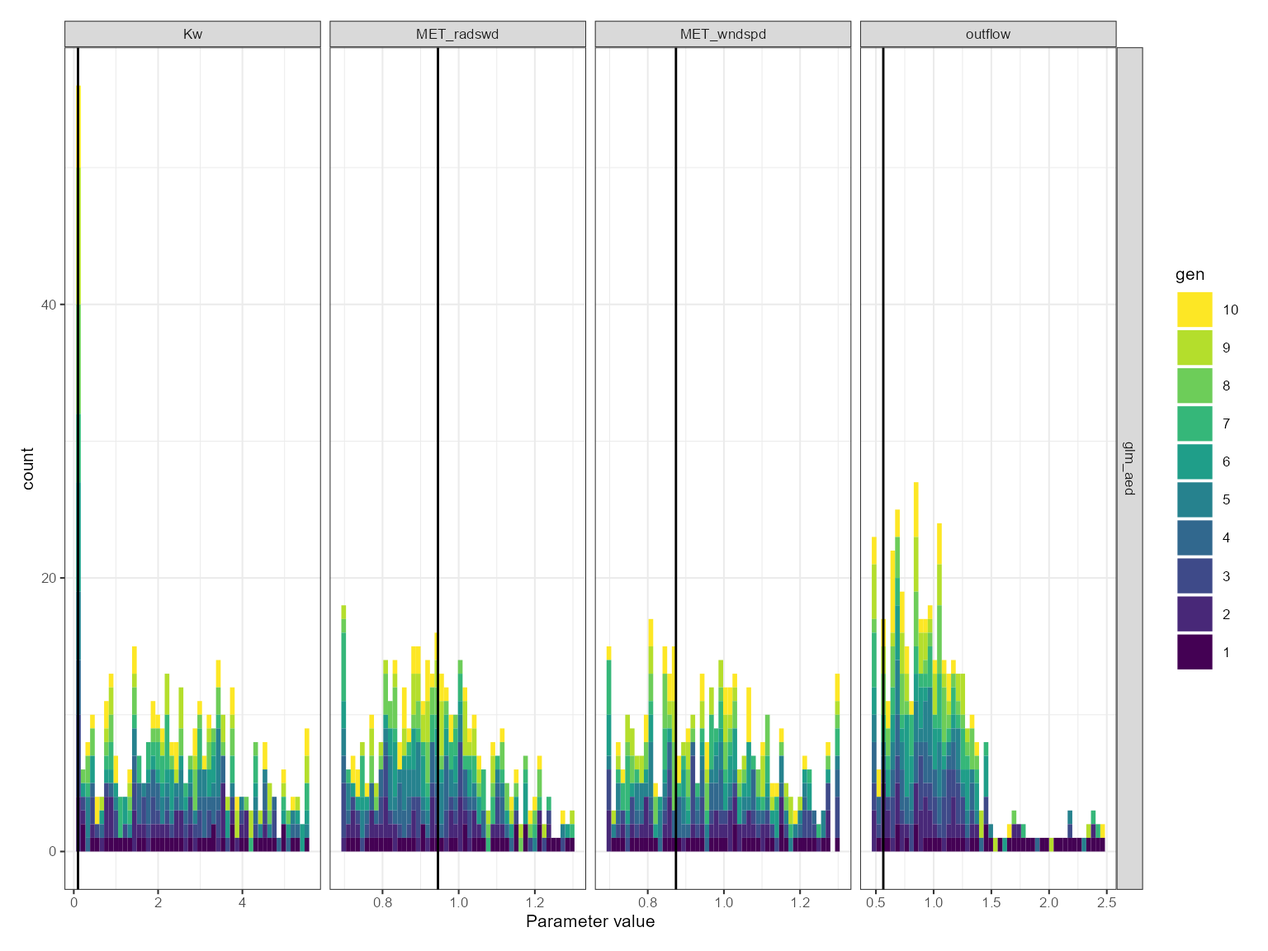
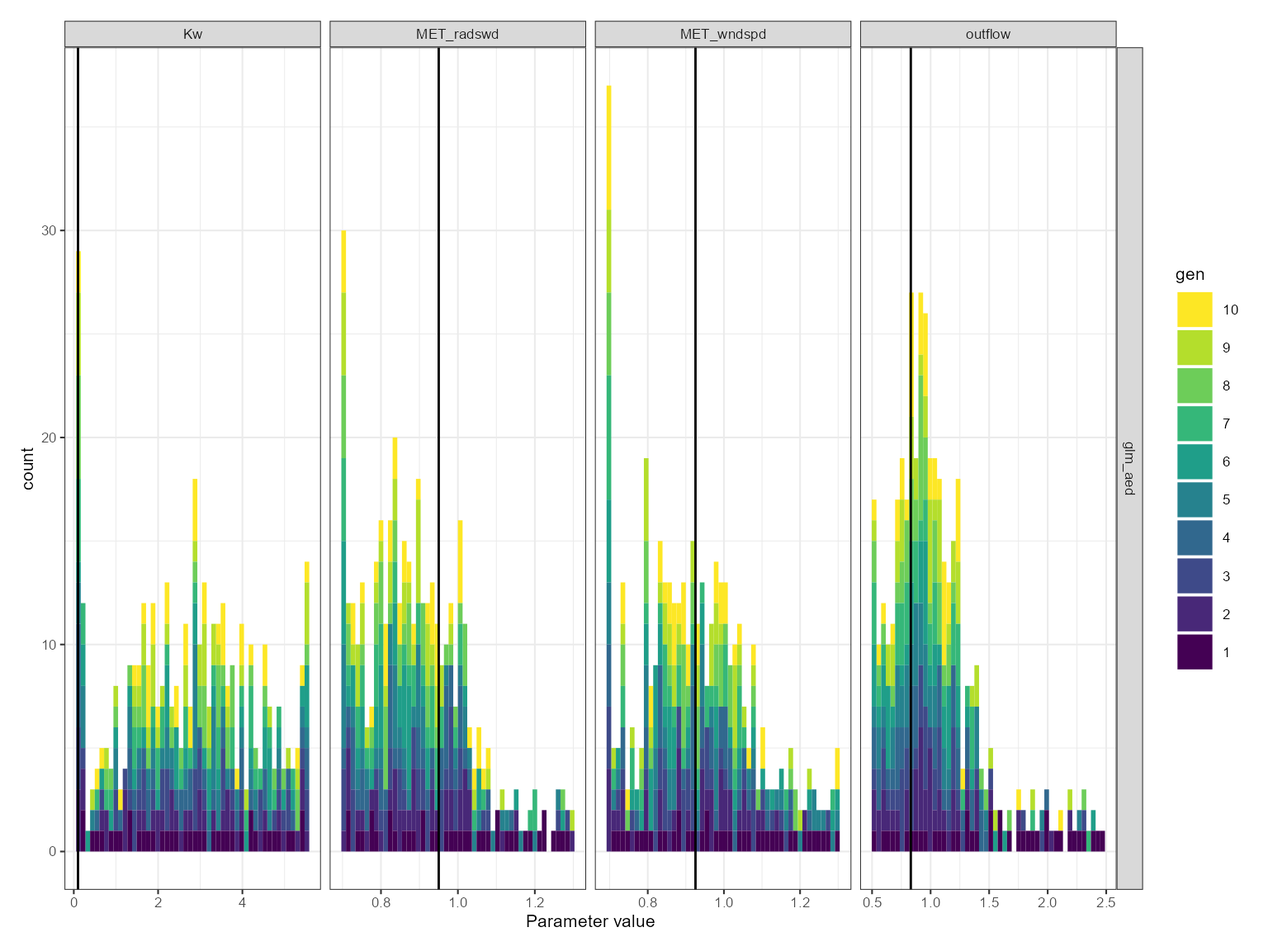
Deploying to gh-pages from @ limnotrack/aemetools@e411aa516987b81ef7f3dbb24cba73d66f4d2c87 🚀

Changed region(s): [[0.0625, 0.0625, 0.875, 0.9375], [0.2812, 0.9375, 0.3125, 0.9688]]

diff --git a/articles/calibrate-aeme.html b/articles/calibrate-aeme.html
@@ -42,7 +42,6 @@
   <a href="#" class="nav-link dropdown-toggle" data-bs-toggle="dropdown" role="button" aria-expanded="false" aria-haspopup="true" id="dropdown-articles">Articles</a>
   <div class="dropdown-menu" aria-labelledby="dropdown-articles">
     <a class="dropdown-item" href="../articles/calibrate-aeme.html">Calibrate AEME</a>
-    <a class="dropdown-item" href="../articles/calibration-strategies.html">Calibration strategies</a>
     <a class="dropdown-item" href="../articles/download-era5.html">Download ERA5 data</a>
   </div>
 </li>
@@ -122,9 +121,9 @@ make sure the current model setup is working.</p>
 <code class="sourceCode R"><span><span class="va">aeme_data</span> <span class="op">&lt;-</span> <span class="fu"><a href="https://rdrr.io/pkg/AEME/man/run_aeme.html" class="external-link">run_aeme</a></span><span class="op">(</span>aeme_data <span class="op">=</span> <span class="va">aeme_data</span>, model <span class="op">=</span> <span class="va">model</span>,</span>
 <span>                      verbose <span class="op">=</span> <span class="cn">FALSE</span>, mod_ctrls <span class="op">=</span> <span class="va">mod_ctrls</span>,</span>
 <span>                      path <span class="op">=</span> <span class="va">path</span><span class="op">)</span></span>
-<span><span class="co">#&gt; Running models... (Have you tried parallelizing?) [2023-11-05 22:23:56.839177]</span></span>
-<span><span class="co">#&gt; GLM-AED run successful! [2023-11-05 22:23:57.577911]</span></span>
-<span><span class="co">#&gt; Model run complete![2023-11-05 22:23:57.578744]</span></span>
+<span><span class="co">#&gt; Running models... (Have you tried parallelizing?) [2023-11-06 04:38:27.919431]</span></span>
+<span><span class="co">#&gt; GLM-AED run successful! [2023-11-06 04:38:28.771862]</span></span>
+<span><span class="co">#&gt; Model run complete![2023-11-06 04:38:28.772852]</span></span>
 <span><span class="co">#&gt; Retrieving and formatting temp for model glm_aed</span></span>
 <span><span class="co">#&gt; Retrieving and formatting salt for model glm_aed</span></span>
 <span><span class="fu"><a href="https://rdrr.io/r/graphics/plot.default.html" class="external-link">plot</a></span><span class="op">(</span><span class="va">aeme_data</span><span class="op">)</span></span></code></pre></div>
@@ -229,9 +228,9 @@ but the model output is generate within the lake folder.</p>
 <div class="sourceCode" id="cb7"><pre class="downlit sourceCode r">
 <code class="sourceCode R"><span><span class="fu"><a href="../reference/run_aeme_param.html">run_aeme_param</a></span><span class="op">(</span>aeme_data <span class="op">=</span> <span class="va">aeme_data</span>, param <span class="op">=</span> <span class="va">aeme_parameters</span>,</span>
 <span>                 model <span class="op">=</span> <span class="va">model</span>, path <span class="op">=</span> <span class="va">path</span>, mod_ctrls <span class="op">=</span> <span class="va">mod_ctrls</span><span class="op">)</span></span>
-<span><span class="co">#&gt; Running models... (Have you tried parallelizing?) [2023-11-05 22:24:04.634765]</span></span>
-<span><span class="co">#&gt; GLM-AED run successful! [2023-11-05 22:24:05.365098]</span></span>
-<span><span class="co">#&gt; Model run complete![2023-11-05 22:24:05.365969]</span></span></code></pre></div>
+<span><span class="co">#&gt; Running models... (Have you tried parallelizing?) [2023-11-06 04:38:33.053816]</span></span>
+<span><span class="co">#&gt; GLM-AED run successful! [2023-11-06 04:38:33.79091]</span></span>
+<span><span class="co">#&gt; Model run complete![2023-11-06 04:38:33.791798]</span></span></code></pre></div>
 </div>
 <div class="section level2">
 <h2 id="calibration-setup">Calibration setup<a class="anchor" aria-label="anchor" href="#calibration-setup"></a>
@@ -301,7 +300,7 @@ This is only used if <code>parallel = TRUE</code>.</li>
 </ul>
 <p>Here is an example of the control parameters:</p>
 <div class="sourceCode" id="cb9"><pre class="downlit sourceCode r">
-<code class="sourceCode R"><span><span class="va">ctrl</span> <span class="op">&lt;-</span> <span class="fu"><a href="https://rdrr.io/r/base/list.html" class="external-link">list</a></span><span class="op">(</span>VTR <span class="op">=</span> <span class="fl">1</span>, NP <span class="op">=</span> <span class="fl">40</span>, itermax <span class="op">=</span> <span class="fl">400</span>, reltol <span class="op">=</span> <span class="fl">0.07</span>, p <span class="op">=</span> <span class="fl">0.25</span>,</span>
+<code class="sourceCode R"><span><span class="va">ctrl</span> <span class="op">&lt;-</span> <span class="fu"><a href="https://rdrr.io/r/base/list.html" class="external-link">list</a></span><span class="op">(</span>VTR <span class="op">=</span> <span class="fl">1</span>, NP <span class="op">=</span> <span class="fl">40</span>, itermax <span class="op">=</span> <span class="fl">400</span>, reltol <span class="op">=</span> <span class="fl">0.07</span>, cutoff <span class="op">=</span> <span class="fl">0.25</span>,</span>
 <span>             mutate <span class="op">=</span> <span class="fl">0.1</span>, parallel <span class="op">=</span> <span class="cn">TRUE</span>, out_file <span class="op">=</span> <span class="st">"results.csv"</span>,</span>
 <span>             na_value <span class="op">=</span> <span class="fl">999</span>, ncore <span class="op">=</span> <span class="fl">2L</span><span class="op">)</span></span></code></pre></div>
 </div>
@@ -365,79 +364,79 @@ values.</p>
 <span>                   param <span class="op">=</span> <span class="va">aeme_parameters</span>, model <span class="op">=</span> <span class="va">model</span>,</span>
 <span>                   mod_ctrls <span class="op">=</span> <span class="va">mod_ctrls</span>, FUN <span class="op">=</span> <span class="va">fit</span>, ctrl <span class="op">=</span> <span class="va">ctrl</span>,</span>
 <span>                   vars_sim <span class="op">=</span> <span class="va">vars_sim</span>, weights <span class="op">=</span> <span class="va">weights</span><span class="op">)</span></span>
-<span><span class="co">#&gt; Extracting indices for modelled variables [2023-11-05 22:24:05.697557]</span></span>
-<span><span class="co">#&gt; Complete! [2023-11-05 22:24:06.553874]</span></span>
+<span><span class="co">#&gt; Extracting indices for modelled variables [2023-11-06 04:38:34.192649]</span></span>
+<span><span class="co">#&gt; Complete! [2023-11-06 04:38:35.09382]</span></span>
 <span><span class="co">#&gt; Calibrating in parallel using 1 cores...</span></span>
-<span><span class="co">#&gt; Starting generation 1/10, 40 members. [2023-11-05 22:24:06.809439]</span></span>
+<span><span class="co">#&gt; Starting generation 1/10, 40 members. [2023-11-06 04:38:35.4264]</span></span>
 <span><span class="co">#&gt;        light.Kw MET_wndspd MET_radswd outflow</span></span>
-<span><span class="co">#&gt; mean      2.818     0.9995     1.0000   1.499</span></span>
-<span><span class="co">#&gt; median    2.847     0.9985     1.0030   1.487</span></span>
-<span><span class="co">#&gt; sd        1.584     0.1748     0.1762   0.591</span></span>
-<span><span class="co">#&gt; Best fit: 2.409 (sd: 327.759)</span></span>
-<span><span class="co">#&gt;             Parameters: [0.268, 0.862, 0.784, 0.564]</span></span>
+<span><span class="co">#&gt; mean      2.806     1.0010     0.9999  1.5020</span></span>
+<span><span class="co">#&gt; median    2.829     0.9949     1.0020  1.5100</span></span>
+<span><span class="co">#&gt; sd        1.587     0.1744     0.1747  0.5819</span></span>
+<span><span class="co">#&gt; Best fit: 2.536 (sd: 327.279)</span></span>
+<span><span class="co">#&gt;             Parameters: [0.271, 0.884, 0.858, 0.926]</span></span>
 <span><span class="co">#&gt; Survival rate: 1</span></span>
-<span><span class="co">#&gt; Starting generation 2/10, 40 members. [2023-11-05 22:24:41.162272]</span></span>
+<span><span class="co">#&gt; Starting generation 2/10, 40 members. [2023-11-06 04:39:14.554675]</span></span>
 <span><span class="co">#&gt;        light.Kw MET_wndspd MET_radswd outflow</span></span>
-<span><span class="co">#&gt; mean      2.058     0.9648     0.9220  0.9478</span></span>
-<span><span class="co">#&gt; median    2.005     0.9912     0.9304  0.8919</span></span>
-<span><span class="co">#&gt; sd        1.328     0.1567     0.1369  0.3880</span></span>
-<span><span class="co">#&gt; Best fit: 2.3488 (sd: 192.53)</span></span>
+<span><span class="co">#&gt; mean      2.639     0.9131     0.9000  1.0180</span></span>
+<span><span class="co">#&gt; median    2.579     0.9400     0.8863  0.9668</span></span>
+<span><span class="co">#&gt; sd        1.645     0.1361     0.1301  0.3731</span></span>
+<span><span class="co">#&gt; Best fit: 2.5363 (sd: 218.14)</span></span>
 <span><span class="co">#&gt; Survival rate: 1</span></span>
-<span><span class="co">#&gt; Starting generation 3/10, 40 members. [2023-11-05 22:25:17.974247]</span></span>
+<span><span class="co">#&gt; Starting generation 3/10, 40 members. [2023-11-06 04:39:56.566896]</span></span>
 <span><span class="co">#&gt;        light.Kw MET_wndspd MET_radswd outflow</span></span>
-<span><span class="co">#&gt; mean      2.065     0.9915     0.9258  0.9889</span></span>
-<span><span class="co">#&gt; median    1.922     0.9441     0.9265  0.9922</span></span>
-<span><span class="co">#&gt; sd        1.455     0.1967     0.1584  0.3247</span></span>
-<span><span class="co">#&gt; Best fit: 2.3275 (sd: 154.3)</span></span>
+<span><span class="co">#&gt; mean      2.744     0.9282     0.9030  1.0270</span></span>
+<span><span class="co">#&gt; median    2.863     0.9117     0.9075  0.9508</span></span>
+<span><span class="co">#&gt; sd        1.644     0.1407     0.1347  0.3612</span></span>
+<span><span class="co">#&gt; Best fit: 2.3576 (sd: 209.21)</span></span>
 <span><span class="co">#&gt; Survival rate: 1</span></span>
-<span><span class="co">#&gt; Starting generation 4/10, 40 members. [2023-11-05 22:25:54.420919]</span></span>
+<span><span class="co">#&gt; Starting generation 4/10, 40 members. [2023-11-06 04:40:38.872863]</span></span>
 <span><span class="co">#&gt;        light.Kw MET_wndspd MET_radswd outflow</span></span>
-<span><span class="co">#&gt; mean      2.486     0.9737     0.9174  0.9137</span></span>
-<span><span class="co">#&gt; median    2.250     0.9575     0.9271  0.8980</span></span>
-<span><span class="co">#&gt; sd        1.553     0.1449     0.1239  0.2975</span></span>
-<span><span class="co">#&gt; Best fit: 2.3275 (sd: 129.23)</span></span>
+<span><span class="co">#&gt; mean      2.785     0.9227     0.8831  0.9987</span></span>
+<span><span class="co">#&gt; median    2.756     0.9235     0.8925  1.0390</span></span>
+<span><span class="co">#&gt; sd        1.664     0.1300     0.1141  0.3245</span></span>
+<span><span class="co">#&gt; Best fit: 2.3567 (sd: 175.88)</span></span>
 <span><span class="co">#&gt; Survival rate: 1</span></span>
-<span><span class="co">#&gt; Starting generation 5/10, 40 members. [2023-11-05 22:26:30.978151]</span></span>
+<span><span class="co">#&gt; Starting generation 5/10, 40 members. [2023-11-06 04:41:21.076886]</span></span>
 <span><span class="co">#&gt;        light.Kw MET_wndspd MET_radswd outflow</span></span>
-<span><span class="co">#&gt; mean      2.489     0.9611     0.9022  1.0070</span></span>
-<span><span class="co">#&gt; median    2.567     0.9570     0.8902  0.9600</span></span>
-<span><span class="co">#&gt; sd        1.519     0.1758     0.1265  0.3739</span></span>
-<span><span class="co">#&gt; Best fit: 2.3274 (sd: 185.42)</span></span>
+<span><span class="co">#&gt; mean      2.615     0.9717     0.9028  0.9856</span></span>
+<span><span class="co">#&gt; median    2.880     0.9433     0.8792  0.9024</span></span>
+<span><span class="co">#&gt; sd        1.469     0.1780     0.1492  0.3557</span></span>
+<span><span class="co">#&gt; Best fit: 2.3537 (sd: 214.97)</span></span>
 <span><span class="co">#&gt; Survival rate: 1</span></span>
-<span><span class="co">#&gt; Starting generation 6/10, 40 members. [2023-11-05 22:27:06.778532]</span></span>
+<span><span class="co">#&gt; Starting generation 6/10, 40 members. [2023-11-06 04:42:03.625924]</span></span>
 <span><span class="co">#&gt;        light.Kw MET_wndspd MET_radswd outflow</span></span>
-<span><span class="co">#&gt; mean      2.171     0.9762     0.9351  0.9408</span></span>
-<span><span class="co">#&gt; median    2.089     1.0110     0.9113  0.8459</span></span>
-<span><span class="co">#&gt; sd        1.786     0.1545     0.1461  0.2964</span></span>
-<span><span class="co">#&gt; Best fit: 2.3255 (sd: 179.83)</span></span>
+<span><span class="co">#&gt; mean      3.000     0.9023     0.8480  0.9712</span></span>
+<span><span class="co">#&gt; median    2.911     0.8521     0.8363  0.9415</span></span>
+<span><span class="co">#&gt; sd        1.668     0.1593     0.1248  0.3582</span></span>
+<span><span class="co">#&gt; Best fit: 2.3537 (sd: 178.09)</span></span>
 <span><span class="co">#&gt; Survival rate: 1</span></span>
-<span><span class="co">#&gt; Starting generation 7/10, 40 members. [2023-11-05 22:27:43.372492]</span></span>
+<span><span class="co">#&gt; Starting generation 7/10, 40 members. [2023-11-06 04:42:46.557084]</span></span>
 <span><span class="co">#&gt;        light.Kw MET_wndspd MET_radswd outflow</span></span>
-<span><span class="co">#&gt; mean      2.189     0.9331     0.9632  1.0120</span></span>
-<span><span class="co">#&gt; median    2.042     0.9435     0.9945  0.9798</span></span>
-<span><span class="co">#&gt; sd        1.495     0.1763     0.1642  0.4340</span></span>
-<span><span class="co">#&gt; Best fit: 2.3255 (sd: 202.92)</span></span>
+<span><span class="co">#&gt; mean      2.635     0.8912     0.8811  0.9985</span></span>
+<span><span class="co">#&gt; median    2.692     0.8840     0.8816  0.9564</span></span>
+<span><span class="co">#&gt; sd        1.588     0.1425     0.1354  0.3606</span></span>
+<span><span class="co">#&gt; Best fit: 2.3444 (sd: 178.2)</span></span>
 <span><span class="co">#&gt; Survival rate: 1</span></span>
-<span><span class="co">#&gt; Starting generation 8/10, 40 members. [2023-11-05 22:28:19.870522]</span></span>
+<span><span class="co">#&gt; Starting generation 8/10, 40 members. [2023-11-06 04:43:29.001325]</span></span>
 <span><span class="co">#&gt;        light.Kw MET_wndspd MET_radswd outflow</span></span>
-<span><span class="co">#&gt; mean      1.976     0.9489     0.9626  0.9366</span></span>
-<span><span class="co">#&gt; median    1.949     0.9111     0.9362  0.9436</span></span>
-<span><span class="co">#&gt; sd        1.552     0.1413     0.1487  0.2847</span></span>
-<span><span class="co">#&gt; Best fit: 2.3249 (sd: 137.98)</span></span>
+<span><span class="co">#&gt; mean      2.729     0.9146     0.8635  0.9726</span></span>
+<span><span class="co">#&gt; median    3.079     0.9203     0.8436  0.9267</span></span>
+<span><span class="co">#&gt; sd        1.588     0.1349     0.1154  0.3209</span></span>
+<span><span class="co">#&gt; Best fit: 2.3437 (sd: 170.47)</span></span>
 <span><span class="co">#&gt; Survival rate: 1</span></span>
-<span><span class="co">#&gt; Starting generation 9/10, 40 members. [2023-11-05 22:28:56.753362]</span></span>
+<span><span class="co">#&gt; Starting generation 9/10, 40 members. [2023-11-06 04:44:11.67561]</span></span>
 <span><span class="co">#&gt;        light.Kw MET_wndspd MET_radswd outflow</span></span>
-<span><span class="co">#&gt; mean      2.383     0.9472     0.9507  0.9973</span></span>
-<span><span class="co">#&gt; median    2.473     0.9477     0.9443  0.9448</span></span>
-<span><span class="co">#&gt; sd        1.816     0.1499     0.1302  0.3799</span></span>
-<span><span class="co">#&gt; Best fit: 2.3248 (sd: 196.49)</span></span>
+<span><span class="co">#&gt; mean      2.640     0.9044     0.8636  1.0420</span></span>
+<span><span class="co">#&gt; median    2.613     0.8807     0.8577  0.9860</span></span>
+<span><span class="co">#&gt; sd        1.544     0.1394     0.1258  0.3369</span></span>
+<span><span class="co">#&gt; Best fit: 2.3329 (sd: 215.4)</span></span>
 <span><span class="co">#&gt; Survival rate: 1</span></span>
-<span><span class="co">#&gt; Starting generation 10/10, 40 members. [2023-11-05 22:29:32.633089]</span></span>
+<span><span class="co">#&gt; Starting generation 10/10, 40 members. [2023-11-06 04:44:53.451593]</span></span>
 <span><span class="co">#&gt;        light.Kw MET_wndspd MET_radswd outflow</span></span>
-<span><span class="co">#&gt; mean      2.189     0.9668     0.9457  0.8740</span></span>
-<span><span class="co">#&gt; median    2.006     0.9451     0.9180  0.7781</span></span>
-<span><span class="co">#&gt; sd        1.684     0.1588     0.1409  0.3634</span></span>
-<span><span class="co">#&gt; Best fit: 2.3248 (sd: 156.23)</span></span>
+<span><span class="co">#&gt; mean      2.742     0.9039     0.8881  0.9933</span></span>
+<span><span class="co">#&gt; median    2.766     0.8892     0.8670  0.9469</span></span>
+<span><span class="co">#&gt; sd        1.355     0.1504     0.1109  0.2969</span></span>
+<span><span class="co">#&gt; Best fit: 2.3329 (sd: 149.35)</span></span>
 <span><span class="co">#&gt; Survival rate: 1</span></span></code></pre></div>
 </div>
 <div class="section level2">

diff --git a/articles/download-era5.html b/articles/download-era5.html
@@ -42,7 +42,6 @@
   <a href="#" class="nav-link dropdown-toggle" data-bs-toggle="dropdown" role="button" aria-expanded="false" aria-haspopup="true" id="dropdown-articles">Articles</a>
   <div class="dropdown-menu" aria-labelledby="dropdown-articles">
     <a class="dropdown-item" href="../articles/calibrate-aeme.html">Calibrate AEME</a>
-    <a class="dropdown-item" href="../articles/calibration-strategies.html">Calibration strategies</a>
     <a class="dropdown-item" href="../articles/download-era5.html">Download ERA5 data</a>
   </div>
 </li>
@@ -96,8 +95,8 @@ your computer to speed up the download.</p>
 <span><span class="va">met</span> <span class="op">&lt;-</span> <span class="fu"><a href="../reference/get_era5_point.html">get_era5_point</a></span><span class="op">(</span>lat <span class="op">=</span> <span class="va">lat</span>, lon <span class="op">=</span> <span class="va">lon</span>, years <span class="op">=</span> <span class="fl">2000</span><span class="op">:</span><span class="fl">2001</span>,</span>
 <span>                      variables <span class="op">=</span> <span class="va">variables</span>, format <span class="op">=</span> <span class="st">"aeme"</span>, parallel <span class="op">=</span> <span class="cn">TRUE</span><span class="op">)</span></span>
 <span><span class="co">#&gt; Auto-refreshing stale OAuth token.</span></span>
-<span><span class="co">#&gt; Downloading ERA5 variables in parallel... [2023-11-05 22:35:50.287673]</span></span>
-<span><span class="co">#&gt; Finished downloading ERA5 variables! [2023-11-05 22:36:02.431838]</span></span>
+<span><span class="co">#&gt; Downloading ERA5 variables in parallel... [2023-11-06 04:45:49.58273]</span></span>
+<span><span class="co">#&gt; Finished downloading ERA5 variables! [2023-11-06 04:46:02.440519]</span></span>
 <span><span class="fu"><a href="https://rdrr.io/r/base/summary.html" class="external-link">summary</a></span><span class="op">(</span><span class="va">met</span><span class="op">)</span></span>
 <span><span class="co">#&gt;       Date              MET_tmpair       MET_pprain     </span></span>
 <span><span class="co">#&gt;  Min.   :2000-01-01   Min.   : 3.407   Min.   : 0.0000  </span></span>

diff --git a/reference/calib_aeme.html b/reference/calib_aeme.html
@@ -29,7 +29,6 @@ to run quicker."><!-- mathjax --><script src="https://cdnjs.cloudflare.com/ajax/
   <a href="#" class="nav-link dropdown-toggle" data-bs-toggle="dropdown" role="button" aria-expanded="false" aria-haspopup="true" id="dropdown-articles">Articles</a>
   <div class="dropdown-menu" aria-labelledby="dropdown-articles">
     <a class="dropdown-item" href="../articles/calibrate-aeme.html">Calibrate AEME</a>
-    <a class="dropdown-item" href="../articles/calibration-strategies.html">Calibration strategies</a>
     <a class="dropdown-item" href="../articles/download-era5.html">Download ERA5 data</a>
   </div>
 </li>
@@ -119,9 +118,9 @@ Default is 200.</p></li>
 <li><p><code>reltol</code> relative convergence tolerance. The algorithm stops if it is
 unable to reduce the value by a factor of <code>reltol * (abs(val) + reltol)</code>.
 Default = 0.07</p></li>
-<li><p><code>p</code>: The quantile used to select the parents for the next generation. For
-example, if <code>p = 0.25</code>, the best 25% of the population will be used as
-parents for the next generation.</p></li>
+<li><p><code>cutoff</code>: The quantile cutoff used to select the parents for the next
+generation. For example, if <code>cutoff = 0.25</code>, the best 25% of the population
+will be used as parents for the next generation.</p></li>
 <li><p><code>mutate</code> fraction of population to undergo mutation (0-1).</p></li>
 <li><p><code>parallel</code> boolean; run calibration in parallel. Default to TRUE</p></li>
 <li><p><code>out_file</code> filepath; to csv for calibration output to be written to.

diff --git a/reference/read_calib.html b/reference/read_calib.html
@@ -25,7 +25,6 @@
   <a href="#" class="nav-link dropdown-toggle" data-bs-toggle="dropdown" role="button" aria-expanded="false" aria-haspopup="true" id="dropdown-articles">Articles</a>
   <div class="dropdown-menu" aria-labelledby="dropdown-articles">
     <a class="dropdown-item" href="../articles/calibrate-aeme.html">Calibrate AEME</a>
-    <a class="dropdown-item" href="../articles/calibration-strategies.html">Calibration strategies</a>
     <a class="dropdown-item" href="../articles/download-era5.html">Download ERA5 data</a>
   </div>
 </li>
@@ -69,9 +68,9 @@ Default is 200.</p></li>
 <li><p><code>reltol</code> relative convergence tolerance. The algorithm stops if it is
 unable to reduce the value by a factor of <code>reltol * (abs(val) + reltol)</code>.
 Default = 0.07</p></li>
-<li><p><code>p</code>: The quantile used to select the parents for the next generation. For
-example, if <code>p = 0.25</code>, the best 25% of the population will be used as
-parents for the next generation.</p></li>
+<li><p><code>cutoff</code>: The quantile cutoff used to select the parents for the next
+generation. For example, if <code>cutoff = 0.25</code>, the best 25% of the population
+will be used as parents for the next generation.</p></li>
 <li><p><code>mutate</code> fraction of population to undergo mutation (0-1).</p></li>
 <li><p><code>parallel</code> boolean; run calibration in parallel. Default to TRUE</p></li>
 <li><p><code>out_file</code> filepath; to csv for calibration output to be written to.

diff --git a/reference/run_and_fit.html b/reference/run_and_fit.html
@@ -25,7 +25,6 @@
   <a href="#" class="nav-link dropdown-toggle" data-bs-toggle="dropdown" role="button" aria-expanded="false" aria-haspopup="true" id="dropdown-articles">Articles</a>
   <div class="dropdown-menu" aria-labelledby="dropdown-articles">
     <a class="dropdown-item" href="../articles/calibrate-aeme.html">Calibrate AEME</a>
-    <a class="dropdown-item" href="../articles/calibration-strategies.html">Calibration strategies</a>
     <a class="dropdown-item" href="../articles/download-era5.html">Download ERA5 data</a>
   </div>
 </li>
@@ -103,8 +102,12 @@ model fit. Currently only supports using one variable.</p></dd>
 to calculate model fit. If NULL, uses mean absolute error (MAE).</p></dd>
 
 
+<dt>weights</dt>
+<dd><p>vector; of weights to be used in the calculation of model fit.</p></dd>
+
+
 <dt>na_value</dt>
-<dd><p>numeric; value to return if model run is unsuccessful</p></dd>
+<dd><p>numeric; value to be returned if model fails to run.</p></dd>
 
 
 <dt>var_indices</dt>
@@ -118,8 +121,18 @@ of each variable. Used when running calibration and the time period does not
 change between simulations.</p></dd>
 
 
+<dt>include_wlev</dt>
+<dd><p>boolean; include water level in the calculation of model
+fit.</p></dd>
+
+
 <dt>return_df</dt>
 <dd><p>boolean; return dataframe of modelled and observed.</p></dd>
+
+
+<dt>fit</dt>
+<dd><p>boolean; fit model or not. If FALSE, only return netCDF file
+connection.</p></dd>
 
 </dl></div>
     <div class="section level2">

diff --git a/articles/index.html b/articles/index.html
@@ -25,7 +25,6 @@
   <a href="#" class="nav-link dropdown-toggle" data-bs-toggle="dropdown" role="button" aria-expanded="false" aria-haspopup="true" id="dropdown-articles">Articles</a>
   <div class="dropdown-menu" aria-labelledby="dropdown-articles">
     <a class="dropdown-item" href="../articles/calibrate-aeme.html">Calibrate AEME</a>
-    <a class="dropdown-item" href="../articles/calibration-strategies.html">Calibration strategies</a>
     <a class="dropdown-item" href="../articles/download-era5.html">Download ERA5 data</a>
   </div>
 </li>
@@ -47,8 +46,6 @@
       <p class="section-desc"></p>
 
       <dl><dt><a href="calibrate-aeme.html">Calibrate AEME</a></dt>
-        <dd>
-        </dd><dt><a href="calibration-strategies.html">Calibration strategies</a></dt>
         <dd>
         </dd><dt><a href="download-era5.html">Download ERA5 data</a></dt>
         <dd>

diff --git a/reference/run_aeme_param.html b/reference/run_aeme_param.html
@@ -25,7 +25,6 @@
   <a href="#" class="nav-link dropdown-toggle" data-bs-toggle="dropdown" role="button" aria-expanded="false" aria-haspopup="true" id="dropdown-articles">Articles</a>
   <div class="dropdown-menu" aria-labelledby="dropdown-articles">
     <a class="dropdown-item" href="../articles/calibrate-aeme.html">Calibrate AEME</a>
-    <a class="dropdown-item" href="../articles/calibration-strategies.html">Calibration strategies</a>
     <a class="dropdown-item" href="../articles/download-era5.html">Download ERA5 data</a>
   </div>
 </li>
@@ -93,6 +92,10 @@ columns c("model", "file", "name", "value", "min", "max", "log")</p></dd>
 
 <dt>return_nc</dt>
 <dd><p>boolean; return netCDF file connection</p></dd>
+
+
+<dt>return_aeme</dt>
+<dd><p>boolean; return AEME object</p></dd>
 
 </dl></div>
     <div class="section level2">

diff --git a/404.html b/404.html
@@ -40,7 +40,6 @@
   <a href="https://special-enigma-8p9lgre.pages.github.io/#" class="nav-link dropdown-toggle" data-bs-toggle="dropdown" role="button" aria-expanded="false" aria-haspopup="true" id="dropdown-articles">Articles</a>
   <div class="dropdown-menu" aria-labelledby="dropdown-articles">
     <a class="dropdown-item" href="https://special-enigma-8p9lgre.pages.github.io/articles/calibrate-aeme.html">Calibrate AEME</a>
-    <a class="dropdown-item" href="https://special-enigma-8p9lgre.pages.github.io/articles/calibration-strategies.html">Calibration strategies</a>
     <a class="dropdown-item" href="https://special-enigma-8p9lgre.pages.github.io/articles/download-era5.html">Download ERA5 data</a>
   </div>
 </li>

diff --git a/reference/download_era5_ncdf.html b/reference/download_era5_ncdf.html
@@ -35,7 +35,6 @@ profile."><!-- mathjax --><script src="https://cdnjs.cloudflare.com/ajax/libs/ma
   <a href="#" class="nav-link dropdown-toggle" data-bs-toggle="dropdown" role="button" aria-expanded="false" aria-haspopup="true" id="dropdown-articles">Articles</a>
   <div class="dropdown-menu" aria-labelledby="dropdown-articles">
     <a class="dropdown-item" href="../articles/calibrate-aeme.html">Calibrate AEME</a>
-    <a class="dropdown-item" href="../articles/calibration-strategies.html">Calibration strategies</a>
     <a class="dropdown-item" href="../articles/download-era5.html">Download ERA5 data</a>
   </div>
 </li>

diff --git a/reference/aeme_parameters.html b/reference/aeme_parameters.html
@@ -25,7 +25,6 @@
   <a href="#" class="nav-link dropdown-toggle" data-bs-toggle="dropdown" role="button" aria-expanded="false" aria-haspopup="true" id="dropdown-articles">Articles</a>
   <div class="dropdown-menu" aria-labelledby="dropdown-articles">
     <a class="dropdown-item" href="../articles/calibrate-aeme.html">Calibrate AEME</a>
-    <a class="dropdown-item" href="../articles/calibration-strategies.html">Calibration strategies</a>
     <a class="dropdown-item" href="../articles/download-era5.html">Download ERA5 data</a>
   </div>
 </li>

diff --git a/reference/calib_GR.html b/reference/calib_GR.html
@@ -25,7 +25,6 @@
   <a href="#" class="nav-link dropdown-toggle" data-bs-toggle="dropdown" role="button" aria-expanded="false" aria-haspopup="true" id="dropdown-articles">Articles</a>
   <div class="dropdown-menu" aria-labelledby="dropdown-articles">
     <a class="dropdown-item" href="../articles/calibrate-aeme.html">Calibrate AEME</a>
-    <a class="dropdown-item" href="../articles/calibration-strategies.html">Calibration strategies</a>
     <a class="dropdown-item" href="../articles/download-era5.html">Download ERA5 data</a>
   </div>
 </li>

diff --git a/reference/convert_era5_ncdf.html b/reference/convert_era5_ncdf.html
@@ -25,7 +25,6 @@
   <a href="#" class="nav-link dropdown-toggle" data-bs-toggle="dropdown" role="button" aria-expanded="false" aria-haspopup="true" id="dropdown-articles">Articles</a>
   <div class="dropdown-menu" aria-labelledby="dropdown-articles">
     <a class="dropdown-item" href="../articles/calibrate-aeme.html">Calibrate AEME</a>
-    <a class="dropdown-item" href="../articles/calibration-strategies.html">Calibration strategies</a>
     <a class="dropdown-item" href="../articles/download-era5.html">Download ERA5 data</a>
   </div>
 </li>
